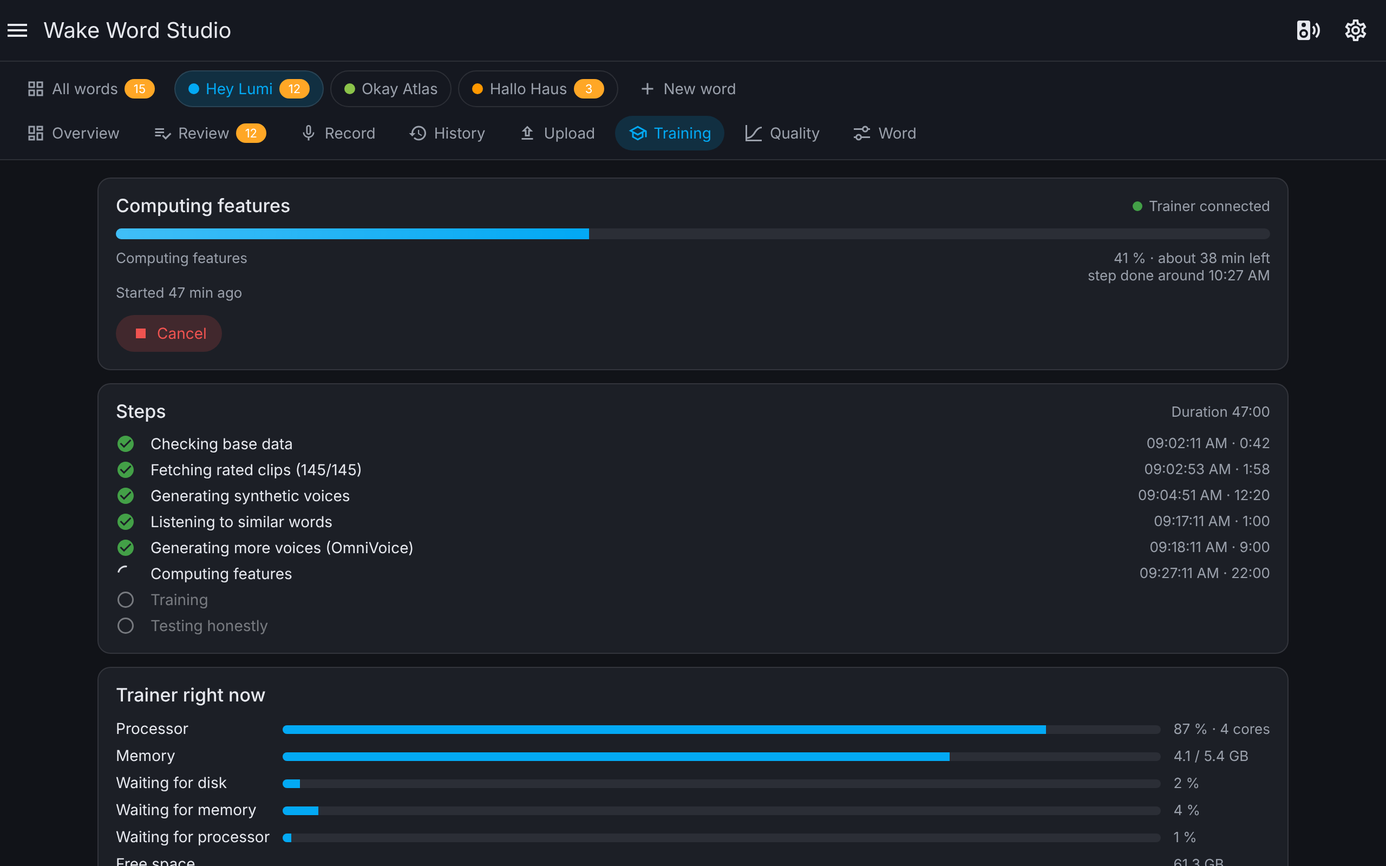
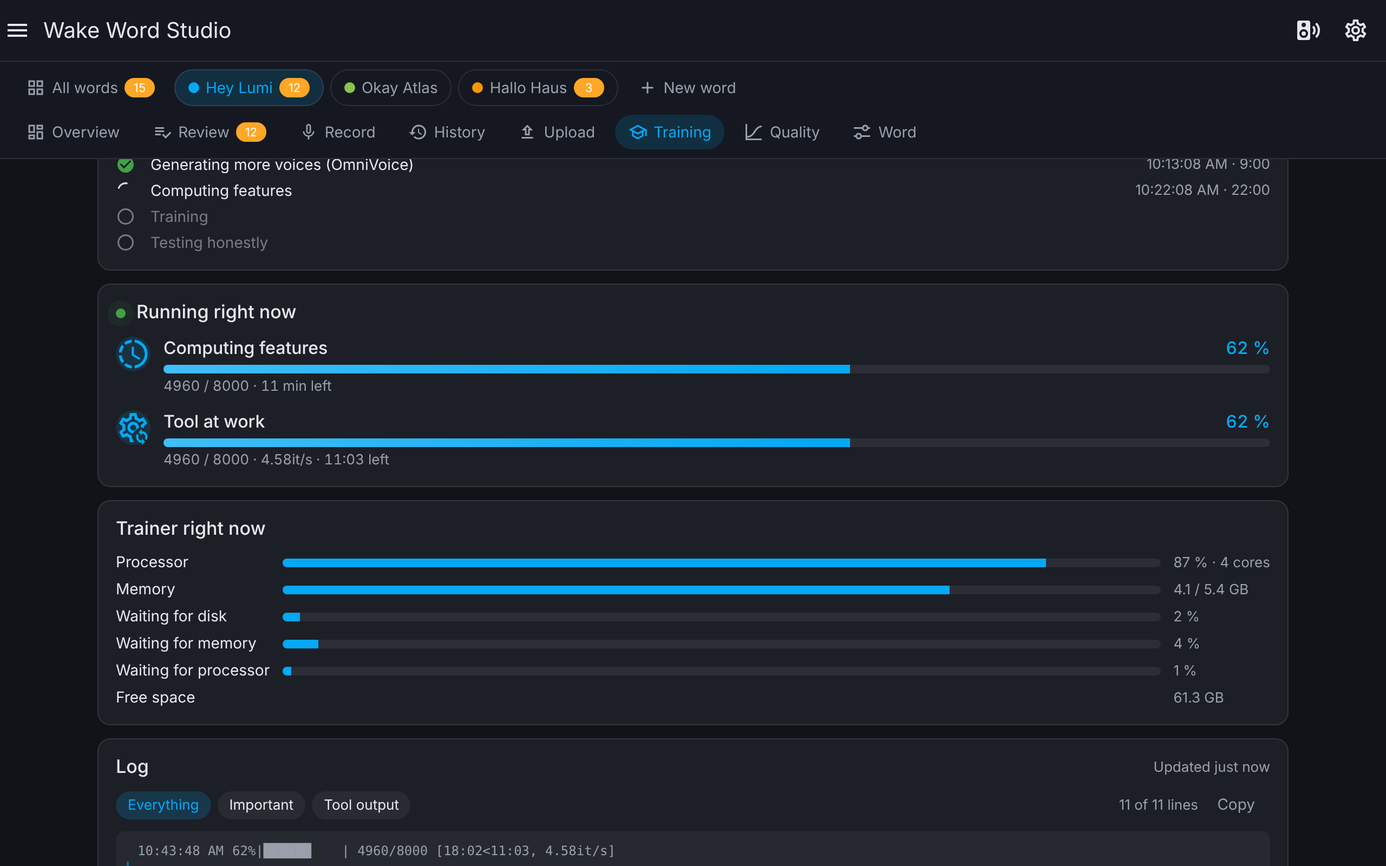
1.0.22: full transparency on the training page
- New card "Running right now": a progress bar for every running part of
  the trainer (the step, each tool's tqdm progress with count, speed and
  time left, OmniVoice stock), animated live dot, icons per kind.
- Log keeps the whole run (500 lines), filter Everything/Important/Tool
  output, copy button, coloured line markers.
- OmniVoice reports per batch what it kept and what it rejected.

Claude-Session: https://claude.ai/code/session_015s6FHN9RtFzjRTkpWD3kXZ

diff --git a/custom_components/sprachmodell/frontend/sprachmodell-panel.js b/custom_components/sprachmodell/frontend/sprachmodell-panel.js
@@ -10,7 +10,7 @@ const TEXTE_DA = import(`./sprachmodell-texte.js${new URL(import.meta.url).searc
   .then((m) => { TEXTE = m.TEXTE; SPRACHNAMEN = m.SPRACHNAMEN; })
   .catch((e) => console.error('Wake Word Studio: texts could not be loaded', e));
 
-const VERSION = '1.0.21';
+const VERSION = '1.0.22';
 const REPO = 'https://github.com/Wadim-dev/WakeWordStudio_ha';
 const BILD = 'ghcr.io/wadim-dev/wake-word-studio-trainer:latest';
 const PROXMOX = 'https://raw.githubusercontent.com/Wadim-dev/WakeWordStudio_ha/main/sprachmodell_trainer/proxmox.sh';
@@ -69,7 +69,8 @@ button.k.gut.gewaehlt{background:var(--success-color,#4caf50);color:#fff}button.
 .ablauf{display:grid;grid-template-columns:22px 1fr auto;gap:6px 10px;align-items:center;font-size:14px}.ablauf .klein{text-align:right;white-space:nowrap}.ablauf ha-icon{--mdc-icon-size:18px}.ablauf .spaeter{opacity:.45}
 .drehen{animation:drehen 1.2s linear infinite}@keyframes drehen{to{transform:rotate(360deg)}}
 .last{display:grid;grid-template-columns:auto 1fr auto;gap:8px 12px;align-items:center;font-size:14px}.last .fortschritt{margin:0;height:8px}
-.protokoll{font-family:ui-monospace,SFMono-Regular,Menlo,Consolas,monospace;font-size:12px;line-height:1.5;max-height:340px;overflow:auto;background:rgba(var(--rgb-primary-text-color,0,0,0),.05);border-radius:8px;padding:8px 10px;white-space:pre-wrap;word-break:break-word}
+.protokoll{font-family:ui-monospace,SFMono-Regular,Menlo,Consolas,monospace;font-size:12px;line-height:1.5;max-height:min(70vh,640px);overflow:auto;background:rgba(var(--rgb-primary-text-color,0,0,0),.05);border-radius:8px;padding:8px 10px;white-space:pre-wrap;word-break:break-word}
+.aktiv{display:grid;gap:14px}.aktiv-z{display:grid;grid-template-columns:32px 1fr;gap:0 12px;align-items:start}.aktiv-z>ha-icon{--mdc-icon-size:20px;width:32px;height:32px;border-radius:50%;display:flex;align-items:center;justify-content:center;background:rgba(var(--rgb-primary-color,3,169,244),.14);color:var(--primary-color)}.aktiv-z b{font-weight:500}.aktiv-z .proz{font-variant-numeric:tabular-nums;font-weight:500;color:var(--primary-color)}.aktiv-z .fortschritt{margin:6px 0 4px;height:8px}.aktiv-z .klein{font-variant-numeric:tabular-nums}.lebt{display:inline-block;width:9px;height:9px;border-radius:50%;background:var(--success-color,#4caf50);margin-right:10px;vertical-align:middle;animation:lebt 1.8s ease-out infinite}@keyframes lebt{0%{box-shadow:0 0 0 0 rgba(var(--rgb-success-color,76,175,80),.6)}100%{box-shadow:0 0 0 9px rgba(var(--rgb-success-color,76,175,80),0)}}.protokoll>div{padding:1px 0 1px 8px;border-left:2px solid transparent}.protokoll .l-warnung,.protokoll .l-warnung_aus{border-left-color:var(--warning-color,#ff9800)}.protokoll .l-fehler{border-left-color:var(--error-color,#f44336)}.protokoll .l-info{border-left-color:rgba(var(--rgb-primary-color,3,169,244),.5)}@media (prefers-reduced-motion:reduce){.lebt,.laeuft .fortschritt i{animation:none}}
 .protokoll .z{color:var(--secondary-text-color);margin-right:8px}.protokoll .l-aus,.protokoll .l-balken,.protokoll .l-schritt{color:var(--secondary-text-color)}.protokoll .l-warnung,.protokoll .l-warnung_aus{color:var(--warning-color,#ff9800)}.protokoll .l-fehler{color:var(--error-color,#f44336)}
 button.k.leise{background:none;color:var(--secondary-text-color)}
 button.k ha-icon{--mdc-icon-size:18px}
@@ -920,10 +921,23 @@ ${s.ram_gb ? `<span>${esc(this.t('t_ram'))}</span>${balken(s.ram_belegt_gb || 0,
 ${[['platte_warten', 't_platte'], ['speicher_warten', 't_speicher_warten'], ['cpu_warten', 't_cpu_warten']].map(([k, t]) => s[k] != null ? `<span>${esc(this.t(t))}</span>${balken(s[k], 100)}<span class="klein">${Math.round(s[k])} %</span>` : '').join('')}
 ${s.platz_frei_gb != null ? `<span>${esc(this.t('t_platz_frei'))}</span><span></span><span class="klein">${this._zahl(s.platz_frei_gb, 1)} GB</span>` : ''}
 </div>${Math.max(s.platte_warten || 0, s.speicher_warten || 0) >= 50 && (s.cpu ?? 100) < 50 ? `<div class="klein" style="margin-top:8px">${esc(this.t('t_platte_hinweis'))}</div>` : ''}</ha-card>` : '';
-    const log = (l.protokoll || []).slice().reverse().map(([z, art, text]) => `<div class="l-${esc(art)}"><span class="z">${this._uhr(z)}</span>${esc(text)}</div>`).join('');
+    const fl = this._logFilter || 'alle', arten = { wichtig: ['info', 'warnung', 'fehler'], ausgabe: ['aus', 'warnung_aus', 'balken', 'schritt'] };
+    const alle = l.protokoll || [], gezeigt = fl === 'alle' ? alle : alle.filter(([, art]) => arten[fl].includes(art));
+    const log = gezeigt.slice().reverse().map(([z, art, text]) => `<div class="l-${esc(art)}"><span class="z">${this._uhr(z)}</span>${esc(text)}</div>`).join('');
+    const chips = ['alle', 'wichtig', 'ausgabe'].map((k) => `<button class="chip ${fl === k ? 'an' : ''}" data-logfilter="${k}">${esc(this.t('t_log_' + k))}</button>`).join('');
+    const bs = laeuft ? (l.balken || []) : [];
+    const aktiv = bs.length ? `<ha-card class="laeuft"><h2><span class="lebt"></span>${esc(this.t('t_aktiv'))}</h2><div class="aktiv">${bs.map((b) => {
+      const name = b.name === '·' ? this.t('t_teilschritt') : this._schritt(b.name);
+      const rest = b.rest && b.rest !== '00:00' && b.rest !== '?' ? b.rest : b.rest_min ? this.t('t_rest_min', { n: b.rest_min }) : '';
+      const info = [b.n != null && b.gesamt != null ? `${b.n} / ${b.gesamt}` : '', b.tempo || '', rest ? this.t('t_noch', { z: rest }) : ''].filter(Boolean).join(' · ');
+      const icon = /^omni|omnivoice/i.test(b.name) ? 'mdi:account-voice' : b.name === '·' ? 'mdi:cog-sync-outline' : /lade|download/i.test(b.name) ? 'mdi:download' : 'mdi:progress-clock';
+      return `<div class="aktiv-z"><ha-icon icon="${icon}"></ha-icon><div><div class="zeile weit"><b>${esc(name)}</b><span class="proz">${this._zahl(b.prozent, b.prozent < 10 ? 1 : 0)} %</span></div><div class="fortschritt"><i style="width:${Math.min(100, Math.max(0, b.prozent))}%"></i></div>${info ? `<div class="klein">${esc(info)}</div>` : ''}</div></div>`;
+    }).join('')}</div></ha-card>` : '';
     return `<ha-card><div class="zeile weit"><h2 style="margin:0">${esc(this.t('t_ablauf'))}</h2><span class="klein">${l.start ? esc(this.t('t_laeuft_seit', { z: this._spanne((aktuell && !laeuft && aktuell.ende ? aktuell.ende : jetzt) - l.start) })) : ''}</span></div><div class="ablauf" style="margin-top:10px">${zeilen}</div></ha-card>
-${last}
-<ha-card><div class="zeile weit"><h2 style="margin:0">${esc(this.t('t_protokoll'))}</h2><span class="klein">${l.zeit ? esc(this.t('t_stand', { z: this._zeit(l.zeit) })) : ''}</span></div><div class="protokoll" style="margin-top:10px">${log || esc(this.t('t_protokoll_leer'))}</div></ha-card>`;
+${aktiv}${last}
+<ha-card><div class="zeile weit"><h2 style="margin:0">${esc(this.t('t_protokoll'))}</h2><span class="klein">${l.zeit ? esc(this.t('t_stand', { z: this._zeit(l.zeit) })) : ''}</span></div>
+<div class="zeile weit" style="margin-top:8px;flex-wrap:wrap;gap:6px"><div class="zeile" style="gap:6px">${chips}</div><span class="klein">${esc(this.t('t_log_zeilen', { n: gezeigt.length, g: alle.length }))} <button class="k leise" data-a="log_kopieren">${esc(this.t('es_kopieren'))}</button></span></div>
+<div class="protokoll" style="margin-top:8px">${log || esc(this.t('t_protokoll_leer'))}</div></ha-card>`;
   }
 
   _training() {
@@ -1153,7 +1167,7 @@ ${geraete.length ? `<h3 style="margin:16px 0 4px">${esc(this.t('es_senden_geraet
 
   // ---------- Ereignisse ----------
   async _klick(e) {
-    const t = e.target.closest('[data-reiter],[data-a],[data-spielen],[data-urteil],[data-echo],[data-verlauf],[data-seite],[data-recmodus],[data-takespielen],[data-takeweg],[data-farbe],[data-zelle],[data-tbecho],[data-schnitt],[data-sa]');
+    const t = e.target.closest('[data-reiter],[data-a],[data-spielen],[data-urteil],[data-echo],[data-verlauf],[data-seite],[data-recmodus],[data-takespielen],[data-takeweg],[data-farbe],[data-zelle],[data-tbecho],[data-schnitt],[data-sa],[data-logfilter]');
     if (!t) return;
     if (t.dataset.reiter) { if (t.dataset.reiter === 'neu') this._entwurf = null; this._gehe(t.dataset.reiter, t.dataset.wort); return; }
     if (t.dataset.spielen) { const zeile = t.closest('.eintrag'); if (zeile) { const alle = [...this.shadowRoot.querySelectorAll('.eintrag:not(.weg)')]; this._aktiv = Math.max(0, alle.indexOf(zeile)); this._markieren(false); } this._spielen(t.dataset.spielen); return; }
@@ -1162,6 +1176,7 @@ ${geraete.length ? `<h3 style="margin:16px 0 4px">${esc(this.t('es_senden_geraet
     if (t.dataset.sa) { this._schnittAktion(t.dataset.sa); return; }
     if (t.dataset.echo !== undefined) { this._filter.echo = t.dataset.echo; this._filter.seite = 0; this._aktiv = 0; this._laden(); return; }
     if (t.dataset.zelle) { const [zeile, von, bis] = t.dataset.zelle.split('|'); this._filter.zelle = { zeile, von: Number(von), bis: Number(bis), echo: this._tbEcho || '' }; this._filter.seite = 0; this._gehe('verlauf', this._wortId); return; }
+    if (t.dataset.logfilter) { this._logFilter = t.dataset.logfilter; this._zeichnen(); return; }
     if (t.dataset.tbecho !== undefined) { this._tbEcho = t.dataset.tbecho; this._zeichnen(); return; }
     if (t.dataset.verlauf) { this._filter.zelle = null; this._filter.verlauf = t.dataset.verlauf; this._filter.seite = 0; this._laden(); return; }
     if (t.dataset.seite) { this._filter.seite = Math.max(0, this._filter.seite + Number(t.dataset.seite)); this._laden(); window.scrollTo(0, 0); return; }
@@ -1189,6 +1204,7 @@ ${geraete.length ? `<h3 style="margin:16px 0 4px">${esc(this.t('es_senden_geraet
         if (confirm(this.t('q_einspielen_frage', { n: nr }))) { await this._api('POST', 'aktion', { aktion: 'einspielen', wort: this._wortId, nr }); this._meldung(this.t('q_wird', { n: nr })); this._laden(); }
       } else if (a === 'schluessel') { this._zeigeSchl = !this._zeigeSchl; this._zeichnen(); }
       else if (a === 'schluessel_neu') { if (confirm(this.t('es_neu_frage'))) { await this._api('POST', 'aktion', { aktion: 'schluessel_neu' }); this._zeigeSchl = true; this._laden(); } }
+      else if (a === 'log_kopieren') { const w = this._daten.wort, l = (w && w.live) || {}; await this._kopieren((l.protokoll || []).map(([z, art, text]) => `${new Date(z * 1000).toLocaleString()} [${art}] ${text}`).join('\n')); }
       else if (a === 'kopieren') await this._kopieren(t.dataset.schl ? (this._daten.trainer || {}).schluessel || '' : t.dataset.text);
       else if (a === 'behalten') { await this._hass.callService('switch', 'turn_on', { entity_id: t.dataset.ent }); this._meldung(this.t('es_senden_behalten_ok')); setTimeout(() => this._laden(), 1500); }
       else if (a === 'seite') {

diff --git a/custom_components/sprachmodell/frontend/sprachmodell-texte.js b/custom_components/sprachmodell/frontend/sprachmodell-texte.js
@@ -14,7 +14,7 @@ export const TEXTE = {
     u_wort: 'Wort gesagt', u_kein_wort: 'Nicht gesagt', u_verworfen: 'Unbrauchbar',
     p_bereit: 'Bereit', p_wartet: 'Wartet auf den Trainer', p_vorbereiten: 'Bereitet vor', p_daten: 'Holt Aufnahmen',
     p_merkmale: 'Berechnet Merkmale', p_training: 'Trainiert', p_test: 'Testet ehrlich', p_fertig: 'Fertig', p_fehler: 'Fehler',
-    s_grunddaten: 'Grunddaten prüfen', s_laden: 'Lade {d}', s_aufnahmen: 'Bewertete Aufnahmen holen', s_stimmen: 'Künstliche Stimmen erzeugen', s_aehnlich_pruefen: 'Ähnliche Wörter anhören', s_stimmen_omni: 'Weitere Stimmen erzeugen (OmniVoice)', s_merkmale: 'Merkmale berechnen', s_merkmale_gerede: 'Merkmale für Gerede berechnen', s_training: 'Training', s_weitertrainieren: 'Weitertrainieren', s_test_neu: 'Neues Modell testen', s_test_alt: 'Bisheriges Modell testen', s_senden: 'Ergebnis senden', s_abgebrochen: 'Abgebrochen', s_trainer_getrennt: 'Trainer hat sich nicht mehr gemeldet',
+    s_grunddaten: 'Grunddaten prüfen', s_laden: 'Lade {d}', s_aufnahmen: 'Bewertete Aufnahmen holen', s_stimmen: 'Künstliche Stimmen erzeugen', s_aehnlich_pruefen: 'Ähnliche Wörter anhören', s_stimmen_omni: 'Weitere Stimmen erzeugen (OmniVoice)', s_merkmale: 'Merkmale berechnen', s_omni_wort: 'OmniVoice: Wort sprechen', s_omni_gerede: 'OmniVoice: anderes Gerede', s_merkmale_gerede: 'Merkmale für Gerede berechnen', s_training: 'Training', s_weitertrainieren: 'Weitertrainieren', s_test_neu: 'Neues Modell testen', s_test_alt: 'Bisheriges Modell testen', s_senden: 'Ergebnis senden', s_abgebrochen: 'Abgebrochen', s_trainer_getrennt: 'Trainer hat sich nicht mehr gemeldet',
     g_aufgewacht: 'Das Gerät ist aufgewacht', g_abgebrochen: 'Nach dem Aufwachen abgebrochen',
     g_verpasst: 'Kurz danach hat es geklappt – vermutlich verpasst', g_knapp: 'Knapp nicht erkannt, danach nichts', g_geraeusch: 'Geräusch',
     grund_von_hand: 'von Hand', grund_nachts: 'nachts', grund_fortsetzen: 'Fortsetzung nach Trainer-Neustart, mit weniger Speicher', s_auswahl: 'Prüfdaten passend zum Speicher auswählen',
@@ -103,7 +103,7 @@ export const TEXTE = {
     q_auto_spaeter: 'Aus deinen Antworten wird sie angepasst, sobald zur aktiven Version 10 richtige und 5 falsche Aufwach-Aufnahmen geprüft sind (bisher {a} und {b}).',
     t_besser_heisst: 'Besser heißt: Im ehrlichen Test (Aufnahmen, die nie gelernt wurden) erkennt sie mindestens so viel und löst bei Gerede in der Sprache des Worts nicht öfter aus.',
     t_ablauf: 'Ablauf', t_laeuft_seit: 'Dauer {z}', t_last: 'Trainer gerade', t_cpu: 'Prozessor', t_kerne: '{n} Kerne', t_ram: 'Arbeitsspeicher', t_platz_frei: 'Freier Platz', t_platte: 'Wartet auf Platte', t_speicher_warten: 'Wartet auf Speicher', t_cpu_warten: 'Wartet auf Prozessor', t_platte_hinweis: 'Der Trainer wartet meist auf Platte oder Speicher – mehr Arbeitsspeicher macht ihn schneller.',
-    t_protokoll: 'Protokoll', t_stand: 'Stand {z}', t_protokoll_leer: 'Noch keine Meldungen.',
+    t_aktiv: 'Gerade aktiv', t_teilschritt: 'Werkzeug arbeitet', t_rest_min: '{n} min', t_noch: 'noch {z}', t_log_alle: 'Alles', t_log_wichtig: 'Wichtig', t_log_ausgabe: 'Ausgabe der Werkzeuge', t_log_zeilen: '{n} von {g} Zeilen', t_protokoll: 'Protokoll', t_stand: 'Stand {z}', t_protokoll_leer: 'Noch keine Meldungen.',
     t_laeufe: 'Bisherige Läufe', t_wann: 'Wann', t_ergebnis: 'Ergebnis', t_vorher: 'Vorher', t_nachher: 'Nachher', t_dauer: 'Dauer',
     t_kein_lauf: 'Noch kein Lauf.', t_abbrechen_frage: 'Training abbrechen?', t_kein_trainer: 'Noch kein Trainer verbunden',
     t_kein_trainer_text: 'Trainiert wird in einer eigenen App (in Home Assistant, als Docker oder auf Proxmox). Wie das geht, steht unter <b>Einstellungen → Trainer</b>.',
@@ -173,7 +173,7 @@ export const TEXTE = {
     u_wort: 'Word said', u_kein_wort: 'Not said', u_verworfen: 'Unusable',
     p_bereit: 'Ready', p_wartet: 'Waiting for the trainer', p_vorbereiten: 'Preparing', p_daten: 'Fetching recordings',
     p_merkmale: 'Computing features', p_training: 'Training', p_test: 'Testing honestly', p_fertig: 'Done', p_fehler: 'Error',
-    s_grunddaten: 'Checking base data', s_laden: 'Downloading {d}', s_aufnahmen: 'Fetching rated clips', s_stimmen: 'Generating synthetic voices', s_aehnlich_pruefen: 'Listening to similar words', s_stimmen_omni: 'Generating more voices (OmniVoice)', s_merkmale: 'Computing features', s_merkmale_gerede: 'Computing speech features', s_training: 'Training', s_weitertrainieren: 'Fine-tuning', s_test_neu: 'Testing new model', s_test_alt: 'Testing current model', s_senden: 'Sending result', s_abgebrochen: 'Cancelled', s_trainer_getrennt: 'Trainer stopped reporting',
+    s_grunddaten: 'Checking base data', s_laden: 'Downloading {d}', s_aufnahmen: 'Fetching rated clips', s_stimmen: 'Generating synthetic voices', s_aehnlich_pruefen: 'Listening to similar words', s_stimmen_omni: 'Generating more voices (OmniVoice)', s_merkmale: 'Computing features', s_omni_wort: 'OmniVoice: speaking the word', s_omni_gerede: 'OmniVoice: other speech', s_merkmale_gerede: 'Computing speech features', s_training: 'Training', s_weitertrainieren: 'Fine-tuning', s_test_neu: 'Testing new model', s_test_alt: 'Testing current model', s_senden: 'Sending result', s_abgebrochen: 'Cancelled', s_trainer_getrennt: 'Trainer stopped reporting',
     g_aufgewacht: 'The device woke up', g_abgebrochen: 'Cancelled after waking up',
     g_verpasst: 'Worked shortly after – probably missed', g_knapp: 'Near miss, nothing afterwards', g_geraeusch: 'Noise',
     grund_von_hand: 'manual', grund_nachts: 'nightly', grund_fortsetzen: 'resumed after a trainer restart, using less memory', s_auswahl: 'Choosing evaluation data that fits the memory',
@@ -254,7 +254,7 @@ export const TEXTE = {
     q_auto_spaeter: 'It is adjusted from your answers once 10 correct and 5 false wake-ups of the active version are reviewed (so far {a} and {b}).',
     t_besser_heisst: 'Better means: in the honest test (recordings never learned) it detects at least as much and does not trigger more often on speech in the word’s language.',
     t_ablauf: 'Steps', t_laeuft_seit: 'Duration {z}', t_last: 'Trainer right now', t_cpu: 'Processor', t_kerne: '{n} cores', t_ram: 'Memory', t_platz_frei: 'Free space', t_platte: 'Waiting for disk', t_speicher_warten: 'Waiting for memory', t_cpu_warten: 'Waiting for processor', t_platte_hinweis: 'The trainer mostly waits for disk or memory – more memory makes it faster.',
-    t_protokoll: 'Log', t_stand: 'Updated {z}', t_protokoll_leer: 'No messages yet.',
+    t_aktiv: 'Running right now', t_teilschritt: 'Tool at work', t_rest_min: '{n} min', t_noch: '{z} left', t_log_alle: 'Everything', t_log_wichtig: 'Important', t_log_ausgabe: 'Tool output', t_log_zeilen: '{n} of {g} lines', t_protokoll: 'Log', t_stand: 'Updated {z}', t_protokoll_leer: 'No messages yet.',
     t_laeufe: 'Previous runs', t_wann: 'When', t_ergebnis: 'Result', t_vorher: 'Before', t_nachher: 'After', t_dauer: 'Duration',
     t_kein_lauf: 'No run yet.', t_abbrechen_frage: 'Cancel training?', t_kein_trainer: 'No trainer connected yet',
     t_kein_trainer_text: 'Training runs in a separate app (in Home Assistant, as Docker or on Proxmox). See <b>Settings → Trainer</b>.',

diff --git a/sprachmodell_trainer/trainer/lauf.py b/sprachmodell_trainer/trainer/lauf.py
@@ -57,7 +57,9 @@ MIXEDNET = [
 ]
 MODELL_DATEI = "tflite_stream_state_internal_quant/stream_state_internal_quant.tflite"
 
-PROTOKOLL_ZEILEN = 80
+PROTOKOLL_ZEILEN = 500
+BALKEN_MAX = 8  # progress bars shown at the same time
+BALKEN_ALT_S = 120  # a bar without news for this long is no longer shown
 # Watchdog: a step that neither prints anything nor uses the CPU for this long counts as hung and is
 # stopped (then retried with fewer processes). A step that only prints nothing but keeps computing is left alone,
 # unless it stays silent for STUMM_MAX_S.
@@ -68,6 +70,19 @@ PLATZ_REST_GB = 0.5  # below this the step stops instead of writing broken files
 VERSUCHE = 3  # attempts per step: normal, then half the processes, then a single process
 SCHRITTE_MAX = 40
 _BALKEN = re.compile(r"\d+%\||it/s|s/it|\d+/\d+ \[|Mini-Batch #\d+")  # progress lines overwrite each other
+# tqdm: "name: 62%|######    | 4960/8000 [18:02<11:03, 4.58it/s]"
+_TQDM = re.compile(r"^(?P<name>.*?)[:\s]*(?P<p>\d{1,3})%\|[^|]*\|\s*(?P<n>[\d.]+[kMG]?)/(?P<g>[\d.]+[kMG]?)"
+                   r"(?:\s*\[(?P<lief>[^<\]]*)<(?P<rest>[^,\]]*)(?:,\s*(?P<tempo>[^\]]*))?\])?")
+
+
+def balken_lesen(zeile: str) -> dict[str, Any] | None:
+    """A tqdm progress line as a bar: name, percent, done/total, elapsed, time left, speed."""
+    m = _TQDM.search(zeile.strip())
+    if not m:
+        return None
+    return {"name": m.group("name").strip()[:80], "prozent": min(100, int(m.group("p"))), "n": m.group("n"),
+            "gesamt": m.group("g"), "lief": (m.group("lief") or "").strip()[:12],
+            "rest": (m.group("rest") or "").strip()[:12], "tempo": (m.group("tempo") or "").strip()[:20]}
 
 # Anteil am Gesamtfortschritt je Abschnitt
 ANTEILE = {"vorbereiten": (0, 8), "daten": (8, 12), "stimmen": (12, 35), "merkmale": (35, 50),
@@ -245,6 +260,9 @@ class Lauf:
         # For the detailed view in HA: last log lines and every step with its start time
         self.protokoll: deque[list[Any]] = deque(maxlen=PROTOKOLL_ZEILEN)
         self.schritte: list[dict[str, Any]] = []
+        # every progress bar running right now (tqdm in the tools, our own steps), each with its own line in HA
+        self.balken: dict[str, dict[str, Any]] = {}
+        self._schritt_name = ""
 
     # --- Steuerung --------------------------------------------------------
 
@@ -304,8 +322,19 @@ class Lauf:
     def live(self) -> dict[str, Any]:
         from .grenzen import auslastung
 
+        jetzt = time.time()
+        for k in [k for k, b in self.balken.items() if jetzt - b["zeit"] > BALKEN_ALT_S]:
+            del self.balken[k]
         return {"protokoll": list(self.protokoll), "schritte": self.schritte, "system": auslastung(self.daten),
-                "start": round(self.start)}
+                "start": round(self.start), "balken": sorted(self.balken.values(), key=lambda b: b["name"] != self._schritt_name)[:BALKEN_MAX]}
+
+    def balken_setzen(self, name: str, prozent: float, **mehr: Any) -> None:
+        """Show (or update) a progress bar in HA; the same name updates the same bar."""
+        name = (name or self._schritt_name or "?")[:80]
+        self.balken[name] = {"name": name, "prozent": round(max(0.0, min(100.0, prozent)), 1),
+                             **{k: v for k, v in mehr.items() if v not in (None, "")}, "zeit": round(time.time())}
+        if len(self.balken) > BALKEN_MAX * 2:
+            del self.balken[min(self.balken, key=lambda k: self.balken[k]["zeit"])]
 
     def _abschnitt(self, name: str, anteil: float, schritt: str, sofort: bool = False, **mehr: Any) -> None:
         phase = {"stimmen": "daten"}.get(name, name)
@@ -334,6 +363,7 @@ class Lauf:
         if threads or self.o.get("threads"):
             umgebung["TF_NUM_INTRAOP_THREADS"] = umgebung["OMP_NUM_THREADS"] = str(threads or self.o["threads"])
         self.notiz("Running " + " ".join(Path(a).name if "/" in a else a for a in args[1:4]))
+        self._schritt_name = schritt
         # own process group: the watchdog and cancelling stop the step together with all its workers
         self._prozess = subprocess.Popen(args, stdout=subprocess.PIPE, stderr=subprocess.STDOUT, text=True,
                                          bufsize=1, cwd=cwd, env=umgebung, start_new_session=True,
@@ -356,14 +386,25 @@ class Lauf:
             if zeile.startswith("FORTSCHRITT "):
                 _, a, b = zeile.split()
                 anteil = int(a) / max(1, int(b))
+                self.balken_setzen(schritt, 100 * anteil, n=a, gesamt=b, **self._rest(verlauf, anteil))
+            elif zeile.startswith("BALKEN "):
+                name, _, rest = zeile[7:].partition("|")
+                a, _, b = rest.partition("|")
+                if a.isdigit() and b.isdigit():
+                    self.balken_setzen(name, 100 * int(a) / max(1, int(b)), n=a, gesamt=b)
+                continue
             elif zeile.startswith("ERGEBNIS "):
                 ergebnis = json.loads(zeile[9:])
             elif schritte_gesamt and takt and (m := re.search(r"Validation Batch #(\d+).*Mini-Batch #(\d+)", zeile)):
                 # microWakeWord's line per training step: (evaluation round, step within the round)
                 anteil = ((int(m.group(1)) - 1) * takt + int(m.group(2))) / schritte_gesamt
+                self.balken_setzen(schritt, 100 * anteil, n=str(round(anteil * schritte_gesamt)),
+                                   gesamt=str(schritte_gesamt), **self._rest(verlauf, anteil))
                 self._ausgabe(zeile)
             elif schritte_gesamt and (m := re.search(r"Step #?(\d+)", zeile)):
                 anteil = int(m.group(1)) / schritte_gesamt
+                self.balken_setzen(schritt, 100 * anteil, n=m.group(1), gesamt=str(schritte_gesamt),
+                                   **self._rest(verlauf, anteil))
                 if "Validation" in zeile:
                     self.notiz(zeile)
                 else:
@@ -373,6 +414,7 @@ class Lauf:
             if anteil is not None:
                 self._abschnitt(abschnitt, von + (bis - von) * anteil, schritt, **self._restzeit(verlauf, anteil))
         code = self._prozess.wait()
+        self.balken.clear()  # the step's bars are done; the next step brings its own
         self._beenden()  # workers left behind by a crashed step
         self._prozess = None
         self._pruefen()
@@ -400,6 +442,10 @@ class Lauf:
         if jetzt - zeit < 120 or anteil <= alt:
             return {}
         return {"restzeit_min": max(1, round((1 - anteil) * (jetzt - zeit) / (anteil - alt) / 60))}
+
+    def _rest(self, verlauf: deque[tuple[float, float]], anteil: float) -> dict[str, int]:
+        rz = self._restzeit(verlauf, anteil)
+        return {"rest_min": rz["restzeit_min"]} if rz else {}
 
     def _waechter(self, prozess: subprocess.Popen) -> None:
         """Never wait silently: stop a step that hangs or is about to run out of memory."""
@@ -462,6 +508,10 @@ class Lauf:
         if not z:
             return
         if _BALKEN.search(z):
+            b = balken_lesen(z)
+            if b:
+                name = b.pop("name") or "·"  # unnamed bar of a tool: shown as "detail" next to the step's own bar
+                self.balken_setzen(name, b.pop("prozent"), **b)
             self.notiz(z, "balken", ersetzen=True)
         elif z.startswith("SPEICHER") or re.search(r"error|fehler|traceback|killed", z, re.IGNORECASE):
             self.notiz(z, "fehler")

diff --git a/sprachmodell_trainer/trainer/werkzeug.py b/sprachmodell_trainer/trainer/werkzeug.py
@@ -26,6 +26,11 @@ def _fortschritt(i: int, n: int) -> None:
     print(f"FORTSCHRITT {i} {n}", flush=True)
 
 
+def _balken(name: str, i: int, n: int) -> None:
+    """An extra progress bar of its own in Home Assistant (next to the step's bar)."""
+    print(f"BALKEN {name}|{i}|{n}", flush=True)
+
+
 def _dateien(ordner: list[str]) -> list[str]:
     return sorted(f for d in ordner for f in glob.glob(os.path.join(d, "*.wav")))
 
@@ -253,23 +258,29 @@ def omni(a: dict) -> dict:
         except Exception as err:  # noqa: BLE001
             print(f"OmniVoice: {type(err).__name__}: {err}"[:240], flush=True)
             break
+        behalten, weg = 0, []
         for x in audio:
             x = resample_poly(np.asarray(x, dtype=np.float32), 16000, 24000)
             if len(x) < 3200 or len(x) > 16000 * 4 or np.abs(x).max() < 1e-3:
                 s["verworfen"] += 1
+                weg.append("(too short/long or silent)")
                 continue
             gehoert = _hoeren(ohr, x, a["sprache"])
             if enthaelt_wort(gehoert, a["wort"]) != (art == "pos"):
                 s["verworfen"] += 1
-                if os.environ.get("OMNI_ZEIGEN"):
-                    print(f"rejected {art}: {gehoert!r}", flush=True)
+                weg.append(repr(gehoert[:40]))
                 continue
+            behalten += 1
             x = x / (np.abs(x).max() + 1e-6) * rnd.uniform(0.3, 0.95)
             datei = os.path.join(s["ziel"], f"{s['nr']:06d}.wav")
             sf.write(datei + ".tmp", (x * 32767).astype(np.int16), 16000, format="WAV")
             os.replace(datei + ".tmp", datei)
             s["nr"] += 1
             s["da"] += 1
+        name = "OmniVoice: word" if art == "pos" else "OmniVoice: other speech"
+        print(f"{name}: {behalten} of {len(audio)} kept" + (f", rejected after listening: {', '.join(weg[:4])}" if weg else "")
+              + f" - {s['da']}/{s['n']}", flush=True)
+        _balken("omni_wort" if art == "pos" else "omni_gerede", min(s["da"], s["n"]), s["n"])
         # progress by time budget or stock, whichever is further: the step ends at the first of both
         voll = sum(min(s["da"], s["n"]) for s in stand.values()) / max(1, gesamt)
         _fortschritt(round(1000 * max(voll, (time.monotonic() - start) / dauer)), 1000)

diff --git a/tests/test_api.py b/tests/test_api.py
@@ -170,6 +170,8 @@ async def test_trainer(hass: HomeAssistant, hass_client_no_auth, admin, api) -> 
         "protokoll": [[1700000000, "info", "merkmale: 1/3"], "kaputt", [1, 2]],
         "schritte": [{"phase": "merkmale", "schritt": "merkmale", "start": 1700000000, "fremd": [1]}, "kaputt"],
         "system": {"cpu": 87, "ram_gb": 5.4, "name": "x"}, "start": 1700000000,
+        "balken": [{"name": "merkmale:2/3", "prozent": 62.5, "n": "4960", "gesamt": "8000", "tempo": "4.58it/s",
+                    "rest_min": 11, "fremd": [1]}, {"name": "ohne Prozent"}, "kaputt"],
     }
     r = await client.post("/api/sprachmodell/trainer/status", headers=kopf,
                           json={"wort_id": "hey_lumi", "phase": "training", "prozent": 51, "live": live})
@@ -178,6 +180,8 @@ async def test_trainer(hass: HomeAssistant, hass_client_no_auth, admin, api) -> 
     assert d["wort"]["live"]["protokoll"] == [[1700000000, "info", "merkmale: 1/3"]]
     assert d["wort"]["live"]["schritte"] == [{"phase": "merkmale", "schritt": "merkmale", "start": 1700000000}]
     assert d["wort"]["live"]["system"] == {"cpu": 87, "ram_gb": 5.4} and d["wort"]["live"]["start"] == 1700000000
+    assert d["wort"]["live"]["balken"] == [{"name": "merkmale:2/3", "prozent": 62.5, "n": "4960", "gesamt": "8000",
+                                            "rest_min": 11, "tempo": "4.58it/s"}]
     # details only (end of a run): the stored state stays as it is
     r = await client.post("/api/sprachmodell/trainer/status", headers=kopf,
                           json={"wort_id": "hey_lumi", "live": {"protokoll": [], "start": "x"}})

diff --git a/custom_components/sprachmodell/zentrale.py b/custom_components/sprachmodell/zentrale.py
@@ -76,11 +76,15 @@ def sprache_aus(hass: HomeAssistant) -> str:
     return sprache if sprache in SPRACHEN else "en"
 
 
+PROTOKOLL_MAX = 500  # log lines of a run kept for the panel (all the trainer sends)
+BALKEN_FELDER = ("name", "prozent", "n", "gesamt", "lief", "rest", "rest_min", "tempo", "zeit")
+
+
 def _live_pruefen(live: dict[str, Any]) -> dict[str, Any]:
     """Keep only what the panel shows, with limits (the trainer is trusted, but the data ends up in the browser)."""
     zeilen = [
         [z[0], str(z[1])[:16], str(z[2])[:300]]
-        for z in (live.get("protokoll") or [])[-100:]
+        for z in (live.get("protokoll") or [])[-PROTOKOLL_MAX:]
         if isinstance(z, list) and len(z) == 3 and isinstance(z[0], int | float)
     ]
     schritte = [
@@ -89,8 +93,14 @@ def _live_pruefen(live: dict[str, Any]) -> dict[str, Any]:
         if isinstance(x, dict)
     ]
     system = {k: v for k, v in (live.get("system") or {}).items() if isinstance(v, int | float) and isinstance(k, str)}
+    balken = [
+        {k: (x[k] if isinstance(x[k], int | float) else str(x[k])[:80]) for k in BALKEN_FELDER
+         if k in x and isinstance(x[k], str | int | float)}
+        for x in (live.get("balken") or [])[:8]
+        if isinstance(x, dict) and isinstance(x.get("prozent"), int | float)
+    ]
     start = live.get("start")
-    return {"protokoll": zeilen, "schritte": schritte, "system": system,
+    return {"protokoll": zeilen, "schritte": schritte, "system": system, "balken": balken,
             "start": start if isinstance(start, int | float) else None, "zeit": jetzt()}
 
 

diff --git a/sprachmodell_trainer/trainer/__init__.py b/sprachmodell_trainer/trainer/__init__.py
@@ -1,3 +1,3 @@
 """Wake Word Studio Trainer."""
 
-__version__ = "1.0.21"
+__version__ = "1.0.22"

diff --git a/README.md b/README.md
@@ -101,7 +101,7 @@ Say the word into your phone or PC – every take is cut by itself. Record negat
 At night (or on a tap) the trainer fetches the reviewed recordings, adds about 50,000 synthetic clips in your word's language – Piper voices plus up to 9,000 clips from the modern voice model **OmniVoice** (men, women, children, elderly, whispering), each checked by speech recognition before it is used – trains a new version and tests it against recordings it **never learned** (new recordings are held back by whole days, about one day in three, so the test has days the model never heard). Similar words used as negative examples are checked by ear first: one that sounds exactly like your word is left out.
 Only a version that is better than the current one is rolled out. Home Assistant reads new wake word models when it starts, so a repair message offers the restart with one tap; afterwards the word is selected on all its devices by itself.
 
-While it runs, the *Training* page shows every step with its start time and duration, the time left and the expected finish time, the trainer's processor, memory and disk load, and a live log, newest line first (also kept after an error, so you can see what went wrong). If the trainer is held up for a long time because it waits for memory or disk, Home Assistant shows a repair message with what to do.
+While it runs, the *Training* page shows every step with its start time and duration, the time left and the expected finish time, a *Running right now* card with a progress bar for everything the trainer is busy with at that moment (the step itself, each tool's own progress with count, speed and time left, OmniVoice's stock), the trainer's processor, memory and disk load, and the full live log of the run (up to 500 lines, newest first, filter *Everything / Important / Tool output*, copy with one tap; also kept after an error, so you can see what went wrong). If the trainer is held up for a long time because it waits for memory or disk, Home Assistant shows a repair message with what to do.
 
 ## Quality
 
@@ -260,7 +260,7 @@ Die Seite *Qualität* zeigt eine Tabelle aus deinen Antworten und der Sicherheit
 
 Die Startseite zeigt oben, was gerade zählt (Training mit „fertig ca. HH:MM“, wartende Aufnahmen, Trainer fehlt, neue Version bereit), mit einem Knopf zum nächsten Schritt; darunter jedes Wort mit Erkennungsquote und den Aufnahmen der letzten 14 Tage, den Trainer mit Auslastung, die Warteschlange und die Geräte.
 
-Die Seite *Training* zeigt während eines Laufs jeden Schritt mit Startzeit und Dauer, Restzeit und voraussichtliches Ende, die Auslastung des Trainers (Prozessor, Arbeitsspeicher, Platte) und ein Live-Protokoll (neueste Zeile oben), das auch nach einem Fehler stehen bleibt. Eine bessere Version liegt danach bereit; Home Assistant liest neue Modelle beim Start, deshalb bietet eine Reparaturmeldung den Neustart mit einem Tipp an, danach wird das Wort an den Geräten von selbst ausgewählt.
+Die Seite *Training* zeigt während eines Laufs jeden Schritt mit Startzeit und Dauer, Restzeit und voraussichtliches Ende, eine Karte *Gerade aktiv* mit einem Ladebalken für alles, woran der Trainer gerade arbeitet (der Schritt selbst, der eigene Fortschritt jedes Werkzeugs mit Anzahl, Tempo und Restzeit, der Vorrat von OmniVoice), die Auslastung des Trainers (Prozessor, Arbeitsspeicher, Platte) und das ganze Live-Protokoll des Laufs (bis 500 Zeilen, neueste oben, Filter *Alles / Wichtig / Ausgabe der Werkzeuge*, mit einem Tipp kopierbar), das auch nach einem Fehler stehen bleibt. Eine bessere Version liegt danach bereit; Home Assistant liest neue Modelle beim Start, deshalb bietet eine Reparaturmeldung den Neustart mit einem Tipp an, danach wird das Wort an den Geräten von selbst ausgewählt.
 
 Für das Training kommen rund 50.000 künstliche Aufnahmen dazu, darunter bis zu 9.000 vom modernen Stimmenmodell OmniVoice (Männer, Frauen, Kinder, Ältere, Flüstern), jede vorher per Spracherkennung geprüft. Ähnliche Wörter, die genau wie dein Wort klingen, fliegen raus. Neue Aufnahmen werden tageweise für den Test zurückgehalten. *Vorprüfen* (Schalter unter Training → Automatik): Der Trainer hört neue Aufnahmen ab, zeigt was er verstanden hat und bestätigt eindeutige von selbst (Markierung *automatisch*, jederzeit änderbar). *Zuschneiden* unter jeder Aufnahme: Anfang und Ende mit Schiebern wählen, nur dieser Teil wird trainiert. Geräte, die ihre Aufnahmen selbst senden können, schicken sie direkt: am TECHO auf der Einrichtungsseite unter Voice → *Send wake clips to* → **Custom**, Adresse `http://<home assistant>:8123/api/wake_word_studio`, Token = Schlüssel des Trainers (steht unter *Einstellungen → Geräte, die Aufnahmen selbst senden*).
 

diff --git a/CHANGELOG.md b/CHANGELOG.md
@@ -1,5 +1,10 @@
 # Changelog
 
+## 1.0.22
+- Full transparency on the *Training* page: new card *Running right now* with a progress bar for everything the trainer is doing at the same time – the step itself, the tools' own progress (downloads, loading models, computing features, training steps) with count, speed and time left, and OmniVoice's word and other-speech stock.
+- The log keeps the whole run (up to 500 lines instead of 80), is taller, can be filtered (*Everything*, *Important*, *Tool output*) and copied in one go.
+- OmniVoice reports every batch: how many clips were kept and what speech recognition heard in the ones it rejected.
+
 ## 1.0.21
 - Fix: while a training ran, the *Training* page jumped back to the top every time the trainer reported (about every 20 seconds), so scrolling down to the log was hardly possible. Refreshing a page now keeps its scroll position, also in Home Assistant setups where the page scrolls inside the frame.
 
